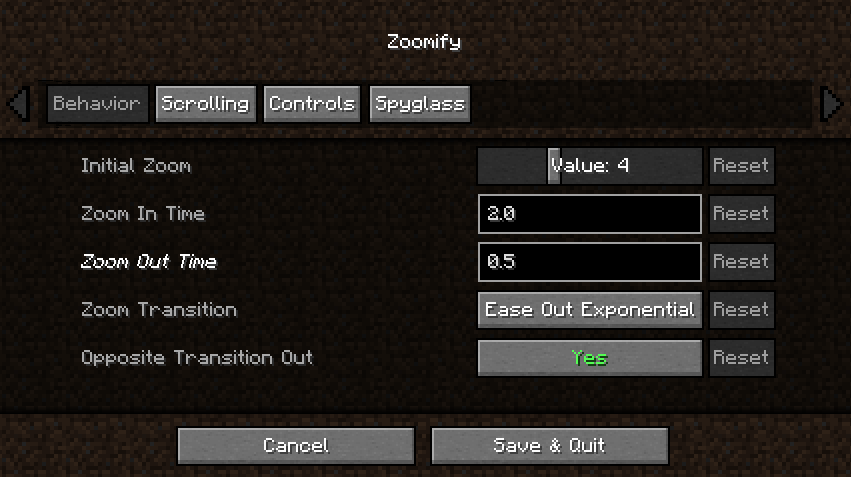
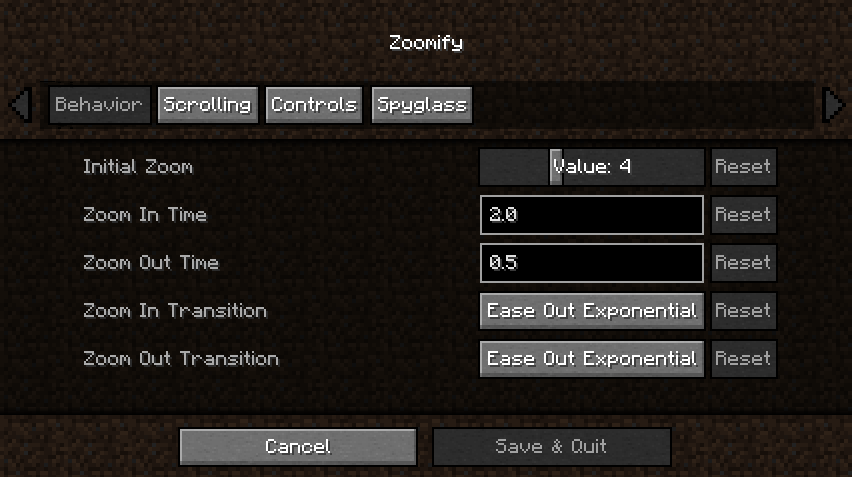
fix zoom out transition being stuck update settxi add changelog for 2.2.0 re-save when upgrading from single zoom transition fix spanish translation files being wrong format add native languages on translation credits

diff --git a/src/main/kotlin/dev/isxander/zoomify/config/ZoomifySettings.kt b/src/main/kotlin/dev/isxander/zoomify/config/ZoomifySettings.kt
@@ -45,7 +45,8 @@ object ZoomifySettings : SettxiConfigKotlinx(FabricLoader.getInstance().configDi
         category = BEHAVIOUR
         defaultSerializedValue = { _, category ->
             if (category?.containsKey("zoomify_gui_zoomtransition_name") == true) {
-                category["zoomify_gui_zoomtransition_name"]!!.primitive
+                needsSaving = true
+                category["zoomify_gui_zoomtransition_name"]!!
             } else {
                 PrimitiveType.of(default.ordinal)
             }
@@ -67,7 +68,8 @@ object ZoomifySettings : SettxiConfigKotlinx(FabricLoader.getInstance().configDi
         category = BEHAVIOUR
         defaultSerializedValue = { _, category ->
             if (category?.containsKey("zoomify_gui_zoomtransition_name") == true) {
-                category["zoomify_gui_zoomtransition_name"]!!.primitive
+                needsSaving = true
+                category["zoomify_gui_zoomtransition_name"]!!
             } else {
                 PrimitiveType.of(default.ordinal)
             }

diff --git a/README.md b/README.md
@@ -80,15 +80,17 @@ Instead of some stupid arbitrary value such as zoom speed, you can pick
 the exact amount of seconds it will take to zoom in, with a separate setting for zooming out.
 
 ### Credits
-- [Xander](https://github.com/isXander) - Founder
+- [Xander](https://github.com/isXander) - Developer
 - [MoonTidez](https://github.com/MoonTidez) - Logo designer
 
 #### Translators
 Languages in alphabetical order
-- [Xander](https://github.com/isXander) - British English
-- [神枪968](https://github.com/GodGun968) - Chinese
-- [Madis0](https://github.com/Madis0) - Estonian
-- [Rodrigo Appelt](https://github.com/Agentew04) - Portuguese
-- [SyberiaK](https://github.com/SyberiaK) - Russian
-- [Felix14-v2](https://github.com/Felix14-v2) - Russian
-- [localfossa](https://github.com/localfossa) - Turkish
+- [Xander](https://github.com/isXander) - English (Britain)
+- [神枪968](https://github.com/GodGun968) - 简体中文 / Chinese (Simplified)
+- [Madis0](https://github.com/Madis0) - eestlane / Estonian
+- [Rodrigo Appelt](https://github.com/Agentew04) - Português / Portuguese
+- [SyberiaK](https://github.com/SyberiaK) - Русский / Russian
+- [Felix14-v2](https://github.com/Felix14-v2) - Русский / Russian
+- [Zetsphiron](https://github.com/Zetsphiron) - Español (mexicano) / Spanish (Mexico)
+- [Zetsphiron](https://github.com/Zetsphiron) - Español (españa) / Spanish (Spain)
+- [localfossa](https://github.com/localfossa) - Türkçe / Turkish

diff --git a/changelogs/2.2.0.md b/changelogs/2.2.0.md
@@ -1,0 +1,12 @@
+## Features
+
+- You can now independently change the zoom in and out transitions.
+
+![](https://raw.githubusercontent.com/isXander/Zoomify/1.19/screenshots/independent-zoom-transition.png)
+
+## Translation Updates
+
+- Add Spanish (Spain) Translation - [Zetsphiron](https://github.com/isXander/Zoomify/pull/73)
+- Add Spanish (Mexico) Translation - [Zetsphiron](https://github.com/isXander/Zoomify/pull/73)
+- Update Chinese (Simplified) Translation - [神枪968](https://github.com/isXander/Zoomify/pull/67)
+- Update Portuguese Translation - [Rodrigo Appelt](https://github.com/isXander/Zoomify/pull/69)
